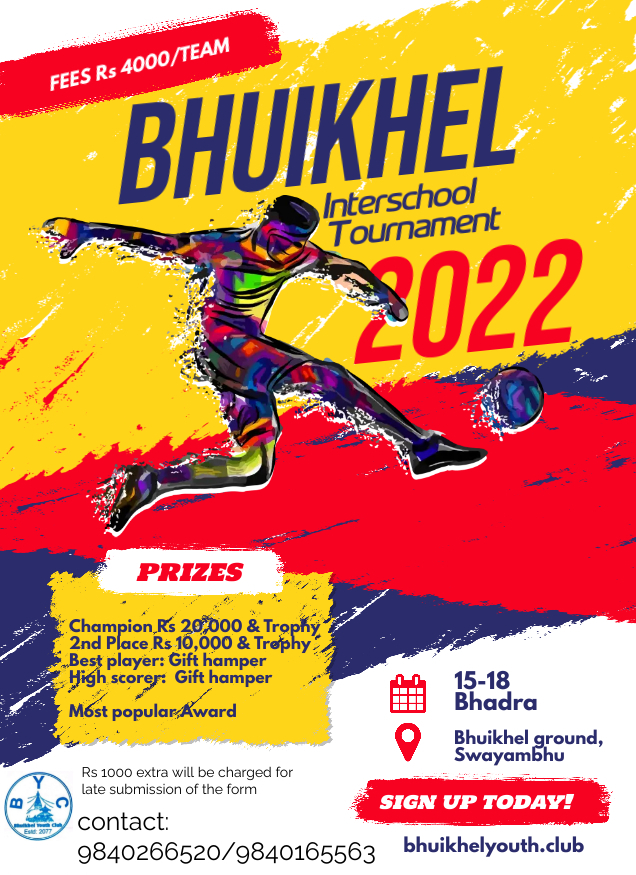
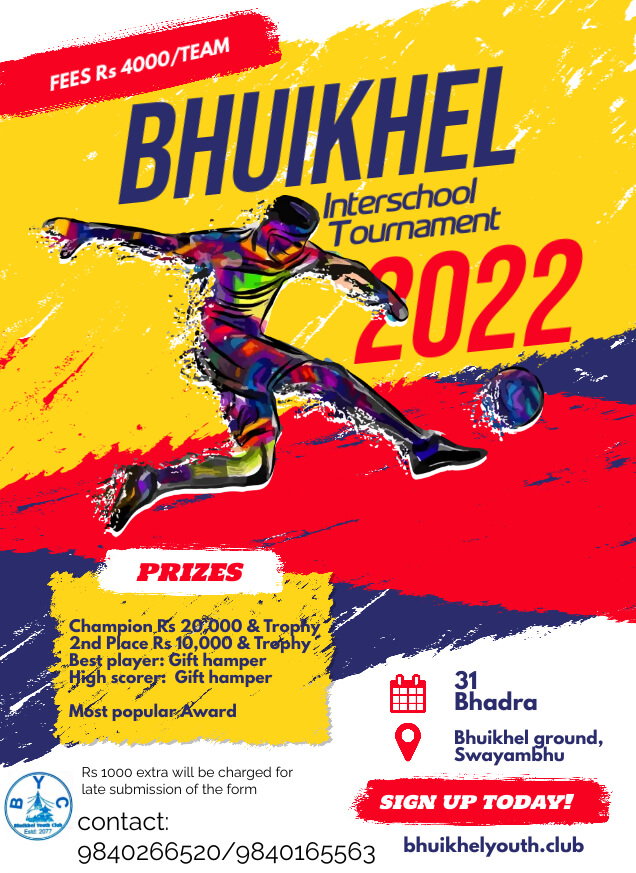
date changed

diff --git a/content/tournament.md b/content/tournament.md
@@ -9,7 +9,7 @@ First Bhuikhel 7A side Interschool tournament
 We are proud to announce 1st Bhuikhel 7A side interschool tournament organized by bhuikhel youth club. These tournaments will provide an opportunity for young aspiring players to compete and of course showcase their talent to national level.
 
 ##### When:
-Our Bhuikhel tournament will take place between **August 31, 2022 (15th Bhadra) to September 03, 2022 (18th Bhadra)**. We will release a detailed schedule of matches close to the launch of the tournament.
+Our Bhuikhel tournament will take place between **September 16, 2022 (31th Bhadra) to September 17, 2022 (1st Ashoj)**. We will release a detailed schedule of matches close to the launch of the tournament.
 
 <div class="mb-24">
     <a href="/assets/pdf/interschool-form.pdf" class="btn-getstarted scrollto" target="_blank">Download Form</a>
